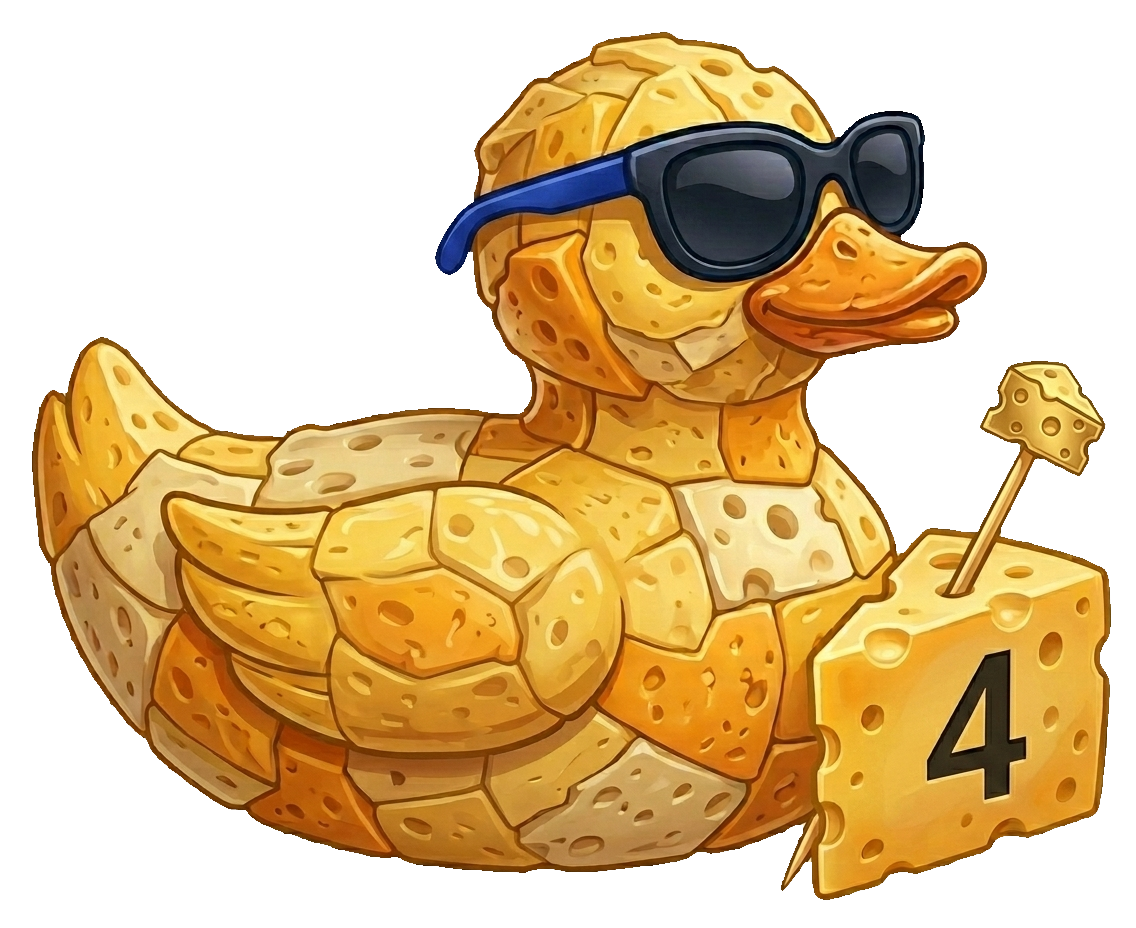
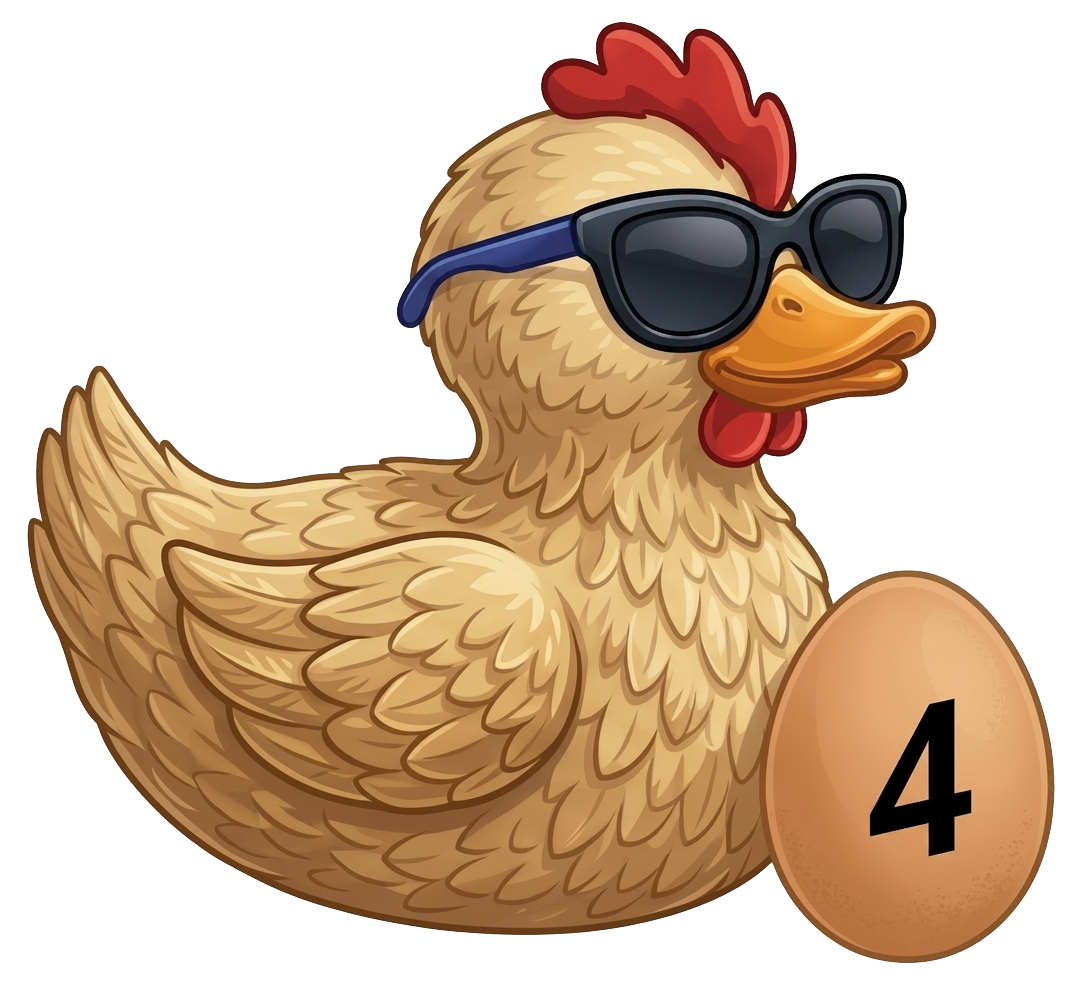
Ducky Derby: admin buoy count, calmer buoy drift, re-push duck images

diff --git a/backend/src/modules/games/ducky.routes.js b/backend/src/modules/games/ducky.routes.js
@@ -101,6 +101,21 @@ export default async function duckyRoutes(fastify) {
       ? fieldOrds[Math.floor(Math.random() * fieldOrds.length)].ord
       : null;
 
+    // buoys — admin-set count spread across the mid-field (0 turns them off).
+    const buoyCount = Math.max(0, Math.min(Number(cfg.buoy_count ?? 4) || 0, 12));
+    const buoyField = lineup.filter((d) => d.ord !== winner.ord && d.ord !== chaserOrd);
+    const buoyByOrd = {};
+    for (let i = 0; i < buoyCount && buoyField.length; i++) {
+      const d = buoyField[Math.floor(Math.random() * buoyField.length)];
+      (buoyByOrd[d.ord] = buoyByOrd[d.ord] || []).push({
+        kind: 'buoy',
+        at: Math.round((0.18 + Math.random() * 0.62) * 1000) / 1000,
+        durationMs: 500 + Math.floor(Math.random() * 700),
+        colour: buoyColour,
+        fromTop: Math.random() < 0.5,
+      });
+    }
+
     const finishMs = {};
     const whirlpools = {}; // per-duck obstacle list (whirlpools + buoys + lily pads), sorted by `at`
     for (const d of lineup) {
@@ -112,30 +127,18 @@ export default async function duckyRoutes(fastify) {
       else base = winMs + 700 + Math.floor(Math.random() * 3200);
 
       const whirls = makeWhirlpools().map((w) => ({ ...w, kind: 'whirl' }));
-      // buoys + lily pads only for the mid-field — never the winner or the chaser.
-      const buoys = [];
+      // buoys assigned above; lily pads are per-duck — never the winner or the chaser.
+      const buoys = buoyByOrd[d.ord] || [];
       const pads = [];
-      if (!isWinner && !isChaser) {
-        const bc = Math.random() < 0.35 ? 1 : 0;
-        for (let i = 0; i < bc; i++) {
-          buoys.push({
-            kind: 'buoy',
-            at: Math.round((0.18 + Math.random() * 0.62) * 1000) / 1000,
-            durationMs: 500 + Math.floor(Math.random() * 700),
-            colour: buoyColour,
-            fromTop: Math.random() < 0.5,
+      if (!isWinner && !isChaser && Math.random() < 0.5) {
+        const pc = Math.random() < 0.3 ? 2 : 1;
+        for (let i = 0; i < pc; i++) {
+          pads.push({
+            kind: 'pad',
+            at: Math.round((0.2 + Math.random() * 0.56) * 1000) / 1000,
+            boost: 0.06,    // progress gained in the leap
+            boostMs: 480,   // a short, fast burst, the visible speed-up
           });
-        }
-        if (Math.random() < 0.5) {
-          const pc = Math.random() < 0.3 ? 2 : 1;
-          for (let i = 0; i < pc; i++) {
-            pads.push({
-              kind: 'pad',
-              at: Math.round((0.2 + Math.random() * 0.56) * 1000) / 1000,
-              boost: 0.06,    // progress gained in the leap
-              boostMs: 480,   // a short, fast burst — the visible speed-up
-            });
-          }
         }
       }
 
@@ -239,9 +242,12 @@ export default async function duckyRoutes(fastify) {
     if ('race_duck_count' in p && (!Number.isInteger(p.race_duck_count) || p.race_duck_count < 2 || p.race_duck_count > 10)) {
       return reply.code(400).send({ error: 'race_duck_count must be 2-10' });
     }
+    if ('buoy_count' in p && (!Number.isInteger(p.buoy_count) || p.buoy_count < 0 || p.buoy_count > 12)) {
+      return reply.code(400).send({ error: 'buoy_count must be 0-12' });
+    }
     const updates = [];
     const values = [];
-    for (const k of ['water_colour', 'grass_colour', 'mud_colour', 'buoy_colour', 'race_duck_count', 'homepage_visible', 'homepage_title', 'homepage_subtitle', 'homepage_days']) {
+    for (const k of ['water_colour', 'grass_colour', 'mud_colour', 'buoy_colour', 'buoy_count', 'race_duck_count', 'homepage_visible', 'homepage_title', 'homepage_subtitle', 'homepage_days']) {
       if (k in p) { values.push(p[k]); updates.push(`${k} = $${values.length}`); }
     }
     if (updates.length) {

diff --git a/frontend/src/pages/DuckyDerbyPage.jsx b/frontend/src/pages/DuckyDerbyPage.jsx
@@ -55,7 +55,7 @@ function DuckSprite({ ord, duckColour, billColour, w, h }) {
       </div>
     );
   }
-  return <img src={`/duck_${ord}.png?v=3`} alt="" style={{ width: w, height: h, objectFit: 'contain', display: 'block' }} onError={() => setBroken(true)} />;
+  return <img src={`/duck_${ord}.png?v=4`} alt="" style={{ width: w, height: h, objectFit: 'contain', display: 'block' }} onError={() => setBroken(true)} />;
 }
 
 /* A tattered, hand-painted cloth flag held up by two black poles. The poles tuck
@@ -325,8 +325,8 @@ export default function DuckyDerbyPage() {
           buoys.push({
             key: `b${d.ord}-${k}`, wx: o.at * COURSE_LEN, y: laneY + 24,
             colour: o.colour || '#e0322e',
-            dur: 3 + Math.random() * 2.6,
-            delay: (o.fromTop ? 0 : -2) - Math.random() * 1.8,
+            dur: 6 + Math.random() * 3,
+            delay: (o.fromTop ? 0 : -3) - Math.random() * 2.5,
           });
         } else if (o.kind === 'pad') {
           pads.push({ key: `p${d.ord}-${k}`, wx: o.at * COURSE_LEN, y: laneY + 30 });
@@ -616,7 +616,7 @@ export default function DuckyDerbyPage() {
         @keyframes ddcount{0%{transform:scale(1.9);opacity:0}35%{opacity:1}100%{transform:scale(1);opacity:.95}}
         @keyframes ddtickerIn{from{transform:translateY(115%);opacity:0}to{transform:translateY(0);opacity:1}}
         @keyframes ddtickerOut{from{transform:translateY(0);opacity:1}to{transform:translateY(-115%);opacity:0}}
-        @keyframes ddbuoy{0%,100%{transform:translateY(-20px)}50%{transform:translateY(20px)}}
+        @keyframes ddbuoy{0%,100%{transform:translateY(-9px)}50%{transform:translateY(9px)}}
         @keyframes ddflash{0%{opacity:0}7%{opacity:.92}17%{opacity:0}30%{opacity:.72}42%{opacity:0}100%{opacity:0}}`}</style>
 
       <div className="flex items-center justify-between">

diff --git a/frontend/src/pages/AdminDuckySection.jsx b/frontend/src/pages/AdminDuckySection.jsx
@@ -15,6 +15,7 @@ export default function AdminDuckySection() {
   const [mud, setMud] = useState('');
   const [buoy, setBuoy] = useState('');
   const [count, setCount] = useState(10);
+  const [buoyCount, setBuoyCount] = useState(4);
 
   async function load() {
     try {
@@ -25,6 +26,7 @@ export default function AdminDuckySection() {
       setMud(c.mud_colour ?? '');
       setBuoy(c.buoy_colour ?? '');
       setCount(c.race_duck_count ?? 10);
+      setBuoyCount(c.buoy_count ?? 4);
     } catch (e) { setError(e.message); }
   }
   useEffect(() => { load(); }, []);
@@ -47,7 +49,7 @@ export default function AdminDuckySection() {
     if (!HEX_RE.test(buoy)) { setError('Buoy colour must be a hex like #e0322e'); return; }
     run(() => api.admin.updateDucky({
       water_colour: water, grass_colour: grass, mud_colour: mud, buoy_colour: buoy,
-      race_duck_count: Number(count),
+      race_duck_count: Number(count), buoy_count: Number(buoyCount),
     }));
   }
 
@@ -78,6 +80,14 @@ export default function AdminDuckySection() {
           <span className="text-[11px] text-neutral-500">Ducks per race</span>
           <select className={inputCls + ' mt-0.5'} value={count} onChange={(e) => setCount(Number(e.target.value))}>
             {[2, 3, 4, 5, 6, 7, 8, 9, 10].map((nn) => <option key={nn} value={nn}>{nn}</option>)}
+          </select>
+        </div>
+        <div>
+          <span className="text-[11px] text-neutral-500">Buoys per race</span>
+          <select className={inputCls + ' mt-0.5'} value={buoyCount} onChange={(e) => setBuoyCount(Number(e.target.value))}>
+            {[0, 1, 2, 3, 4, 5, 6, 8, 10, 12].map((nn) => (
+              <option key={nn} value={nn}>{nn === 0 ? 'Off' : nn}</option>
+            ))}
           </select>
         </div>
       </div>
